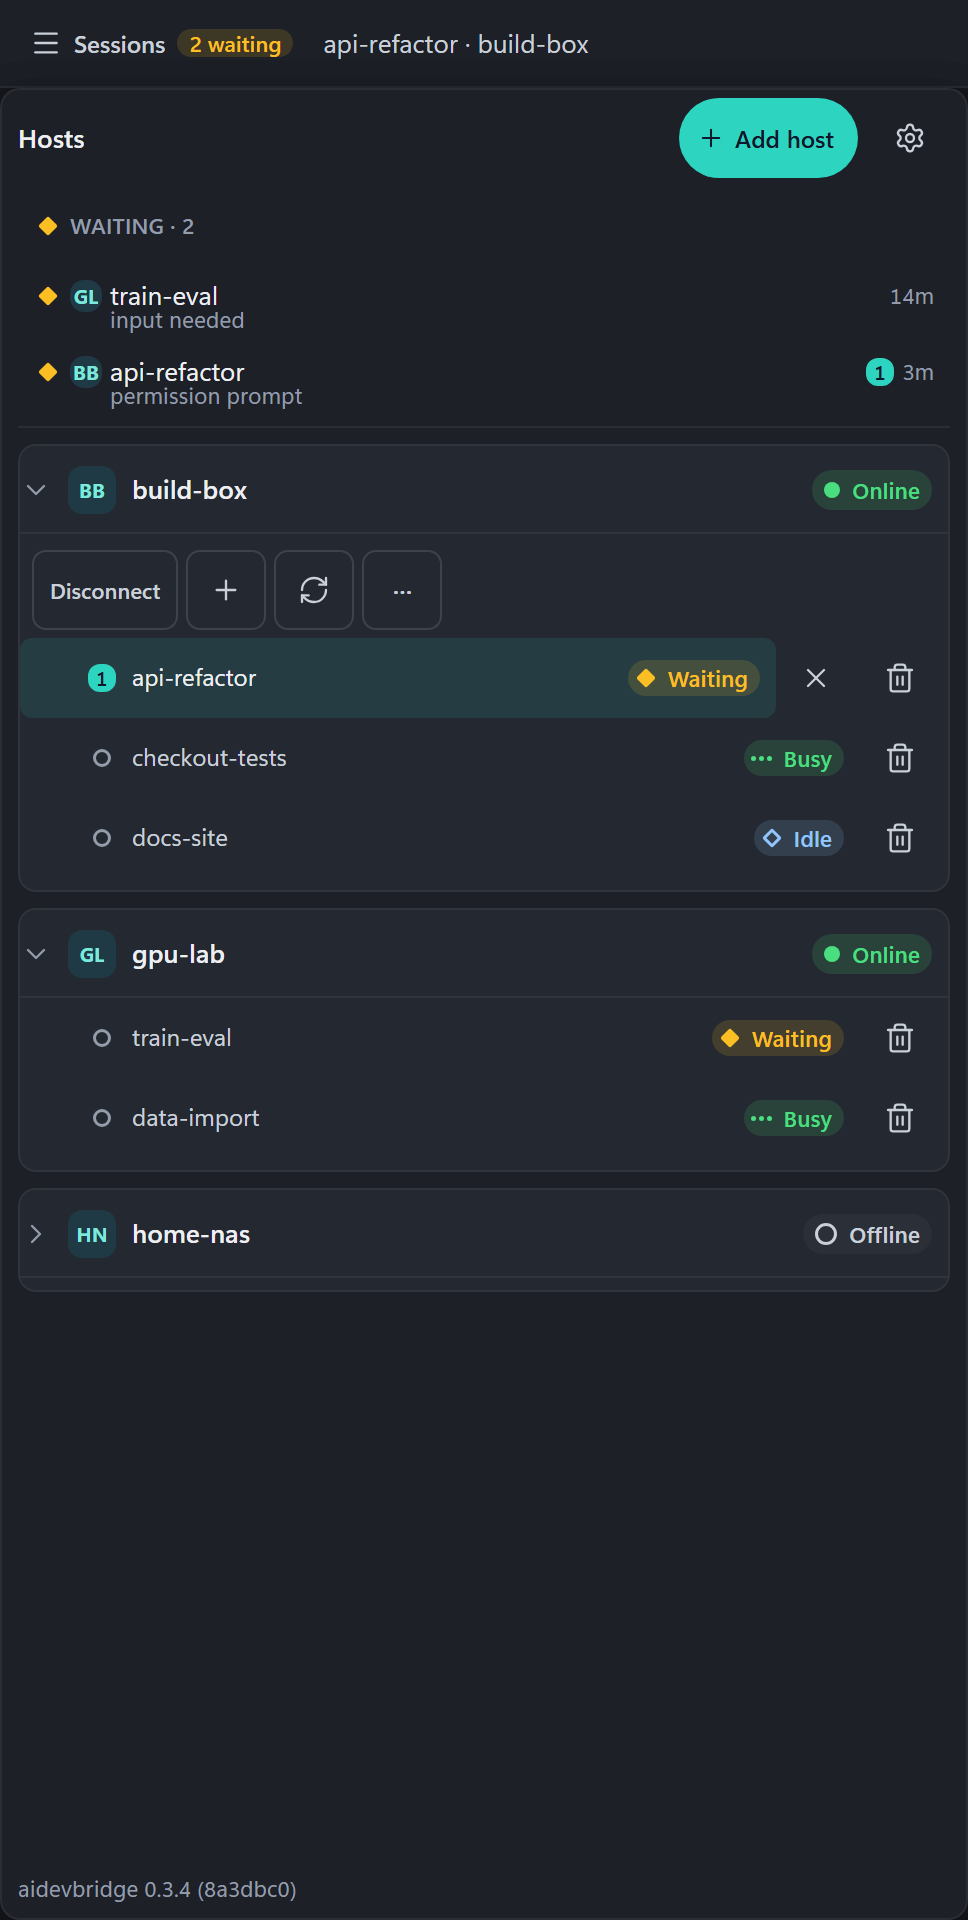
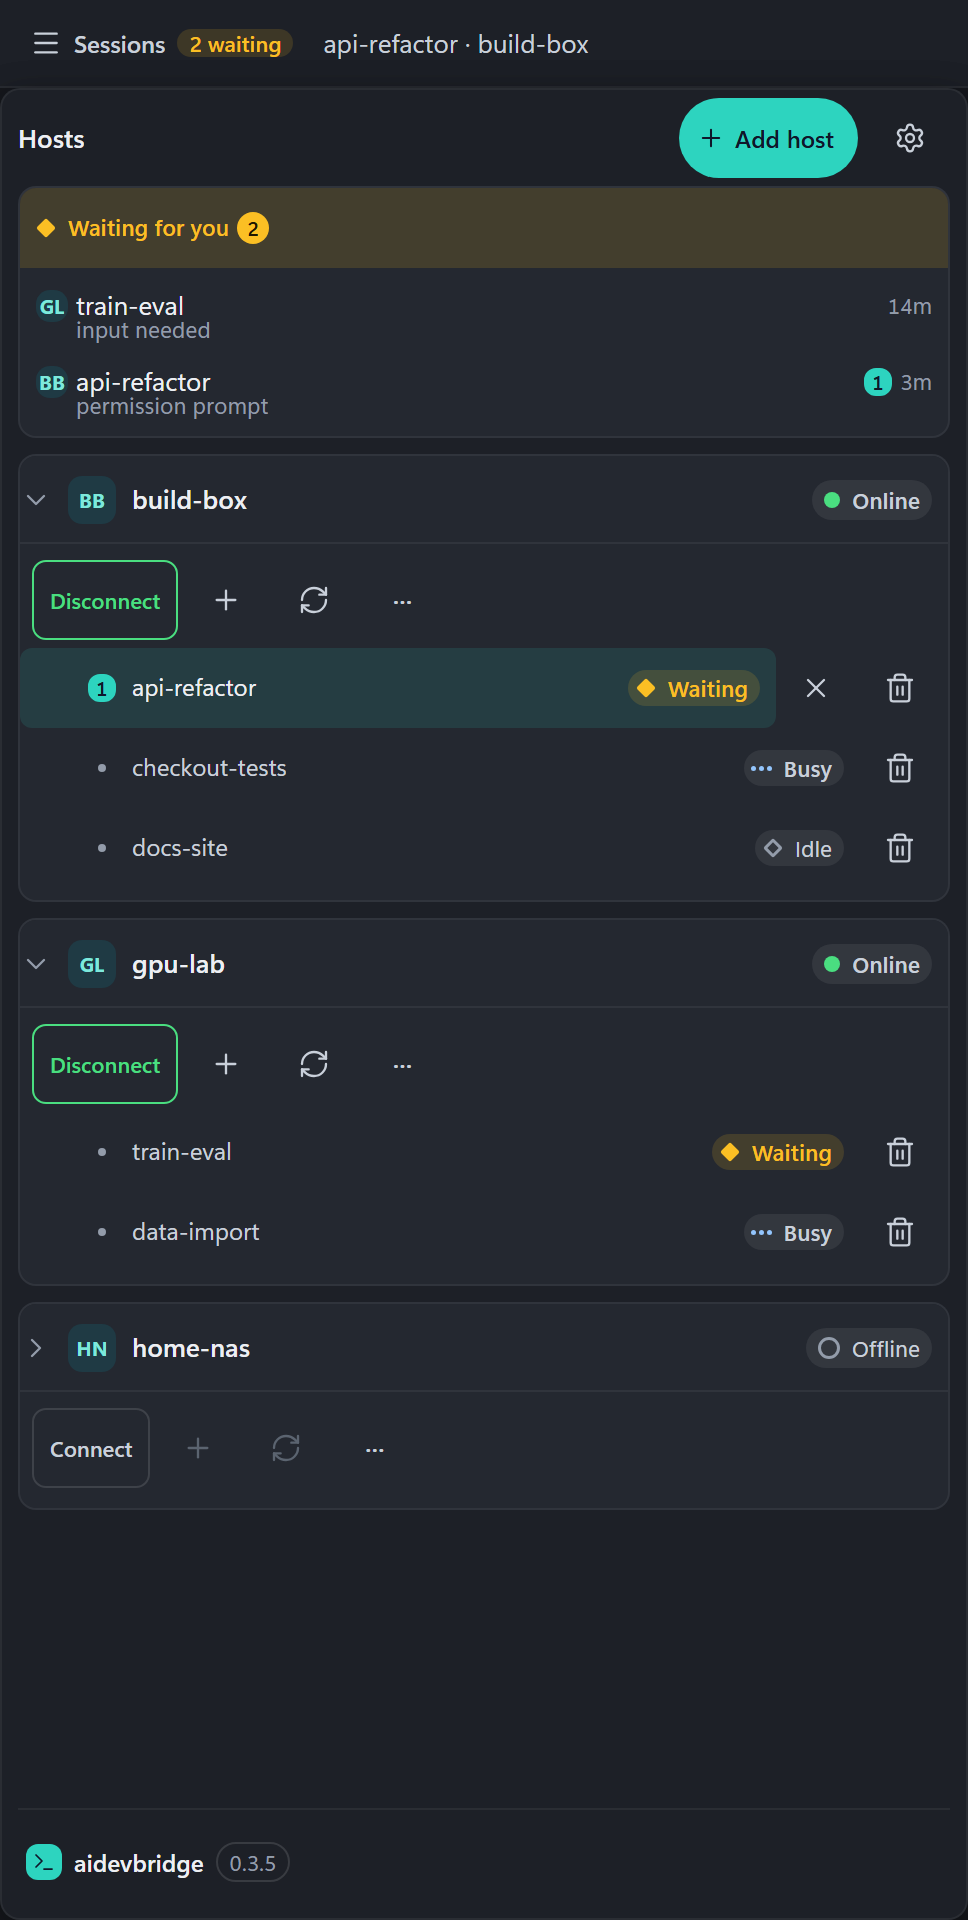
docs(images): render the README, social preview and store pictures for 0.3.5
The pictures show the new sidebar and status display of 0.3.5: the
action row on every host, the calmer pills, the waiting lane as a card,
the brand in the foot and six backgrounds under Appearance.

- `render.mjs`: `waiting-lane.png` ends below the last host card. The
  fixed height of 480 px cut through the third card now that every card
  carries its action row.
- `how-it-works.html`, `social-preview.html`: the hand-drawn pills
  follow the status display. Only "Waiting" is tinted; "Busy" and
  "Idle" stand on the neutral chip with a blue and a gray glyph. Before,
  "Busy" was green, which now means connected and nothing else.
- README: six backgrounds and 42 themes instead of two and 14, and the
  sidebar that collapses to an icon rail.

diff --git a/scripts/readme-images/how-it-works.html b/scripts/readme-images/how-it-works.html
@@ -23,10 +23,16 @@
   .link em { display: block; font-style: normal; font-size: 15px; color: #9AA3B2; margin-top: 10px; }
   .tmux { border: 1px dashed #4A5160; border-radius: 10px; padding: 8px 14px; margin-top: 4px; }
   .row { display: flex; align-items: center; justify-content: space-between; padding: 8px 0; font: 18px "Cascadia Mono", Consolas, monospace; }
-  .pill { font: 600 15px "Segoe UI Variable Text", "Segoe UI", system-ui, sans-serif; padding: 5px 12px; border-radius: 999px; }
+  /* Wie die Statusanzeige der App (Spec vom 14.11.2026): getoent ist nur
+     "Waiting"; "Busy" und "Idle" stehen neutral, ihr Zeichen traegt die Farbe. */
+  .pill { display: inline-flex; align-items: center; gap: 8px; font: 600 15px "Segoe UI Variable Text", "Segoe UI", system-ui, sans-serif; padding: 5px 12px 5px 10px; border-radius: 999px; }
+  .pill i { display: block; box-sizing: border-box; flex: none; }
   .waiting { background: rgba(251, 191, 36, 0.15); color: #FBBF24; }
-  .busy { background: rgba(74, 222, 128, 0.15); color: #4ADE80; }
-  .idle { background: rgba(147, 197, 253, 0.15); color: #93C5FD; }
+  .waiting i { width: 9px; height: 9px; border-radius: 1px; background: #FBBF24; transform: rotate(45deg); }
+  .busy, .idle { background: rgba(255, 255, 255, 0.07); color: #C9D0DA; }
+  .busy i { width: 3px; height: 3px; margin: 0 5px; border-radius: 50%; background: #93C5FD; box-shadow: -5px 0 0 #93C5FD, 5px 0 0 #93C5FD; }
+  .idle { font-weight: 400; }
+  .idle i { width: 9px; height: 9px; border: 1.5px solid #939CAA; border-radius: 1px; transform: rotate(45deg); }
   .none { margin: 14px 0 0; font-size: 16px; color: #C9D0DA; }
   .none b { color: #2DD4BF; font-weight: 600; }
 </style>
@@ -57,9 +63,9 @@
     <div class="box">
       <p class="eyebrow">Your Linux host</p>
       <div class="tmux">
-        <div class="row">claude <span class="pill waiting">Waiting</span></div>
-        <div class="row">codex <span class="pill busy">Busy</span></div>
-        <div class="row">claude <span class="pill idle">Idle</span></div>
+        <div class="row">claude <span class="pill waiting"><i></i>Waiting</span></div>
+        <div class="row">codex <span class="pill busy"><i></i>Busy</span></div>
+        <div class="row">claude <span class="pill idle"><i></i>Idle</span></div>
       </div>
       <p class="none">Sessions live in tmux and keep running. <b>Nothing installed on the host.</b></p>
     </div>

diff --git a/scripts/readme-images/social-preview.html b/scripts/readme-images/social-preview.html
@@ -14,10 +14,16 @@
   h1 { margin: 0; font-size: 41px; line-height: 1.12; font-weight: 600; letter-spacing: -0.5px; }
   p { margin: 0; font-size: 23px; line-height: 1.35; color: #C9D0DA; }
   .pills { display: flex; gap: 10px; }
-  .pill { font-size: 19px; line-height: 1; padding: 9px 15px; border-radius: 999px; font-weight: 600; }
+  /* Wie die Statusanzeige der App (Spec vom 14.11.2026): getoent ist nur
+     "Waiting"; "Busy" und "Idle" stehen neutral, ihr Zeichen traegt die Farbe. */
+  .pill { display: inline-flex; align-items: center; gap: 10px; font-size: 19px; line-height: 1; padding: 9px 15px 9px 13px; border-radius: 999px; font-weight: 600; }
+  .pill i { display: block; box-sizing: border-box; flex: none; }
   .waiting { background: rgba(251, 191, 36, 0.15); color: #FBBF24; }
-  .busy { background: rgba(74, 222, 128, 0.15); color: #4ADE80; }
-  .idle { background: rgba(147, 197, 253, 0.15); color: #93C5FD; }
+  .waiting i { width: 11px; height: 11px; border-radius: 1px; background: #FBBF24; transform: rotate(45deg); }
+  .busy, .idle { background: rgba(255, 255, 255, 0.07); color: #C9D0DA; }
+  .busy i { width: 4px; height: 4px; margin: 0 6px; border-radius: 50%; background: #93C5FD; box-shadow: -6px 0 0 #93C5FD, 6px 0 0 #93C5FD; }
+  .idle { font-weight: 400; }
+  .idle i { width: 11px; height: 11px; border: 2px solid #939CAA; border-radius: 1px; transform: rotate(45deg); }
   img { position: absolute; left: 580px; top: 56px; width: 1120px; display: block; }
 </style>
 </head>
@@ -36,9 +42,9 @@
     <h1>See which coding agent is waiting for you.</h1>
     <p>All your tmux sessions, on all your Linux hosts, in one app. Windows, macOS, Android.</p>
     <div class="pills">
-      <span class="pill waiting">Waiting</span>
-      <span class="pill busy">Busy</span>
-      <span class="pill idle">Idle</span>
+      <span class="pill waiting"><i></i>Waiting</span>
+      <span class="pill busy"><i></i>Busy</span>
+      <span class="pill idle"><i></i>Idle</span>
     </div>
   </div>
   <img src="../../docs/images/hero.png" alt="">

diff --git a/README.md b/README.md
@@ -73,10 +73,10 @@ answer. **Nothing is installed on the hosts.**
   <tr>
     <td>
       <h3>Make it yours</h3>
-      Seven accent colors on two backgrounds give you 14 themes, and the terminal
-      font size is yours to set.
+      Seven accent colors on six backgrounds give you 42 themes, the sidebar
+      collapses to a narrow icon rail, and the terminal font size is yours to set.
     </td>
-    <td><img src="docs/images/themes.png" alt="Settings, Appearance: seven accent colors and two backgrounds"></td>
+    <td><img src="docs/images/themes.png" alt="Settings, Appearance: seven accent colors and six backgrounds"></td>
   </tr>
 </table>
 
